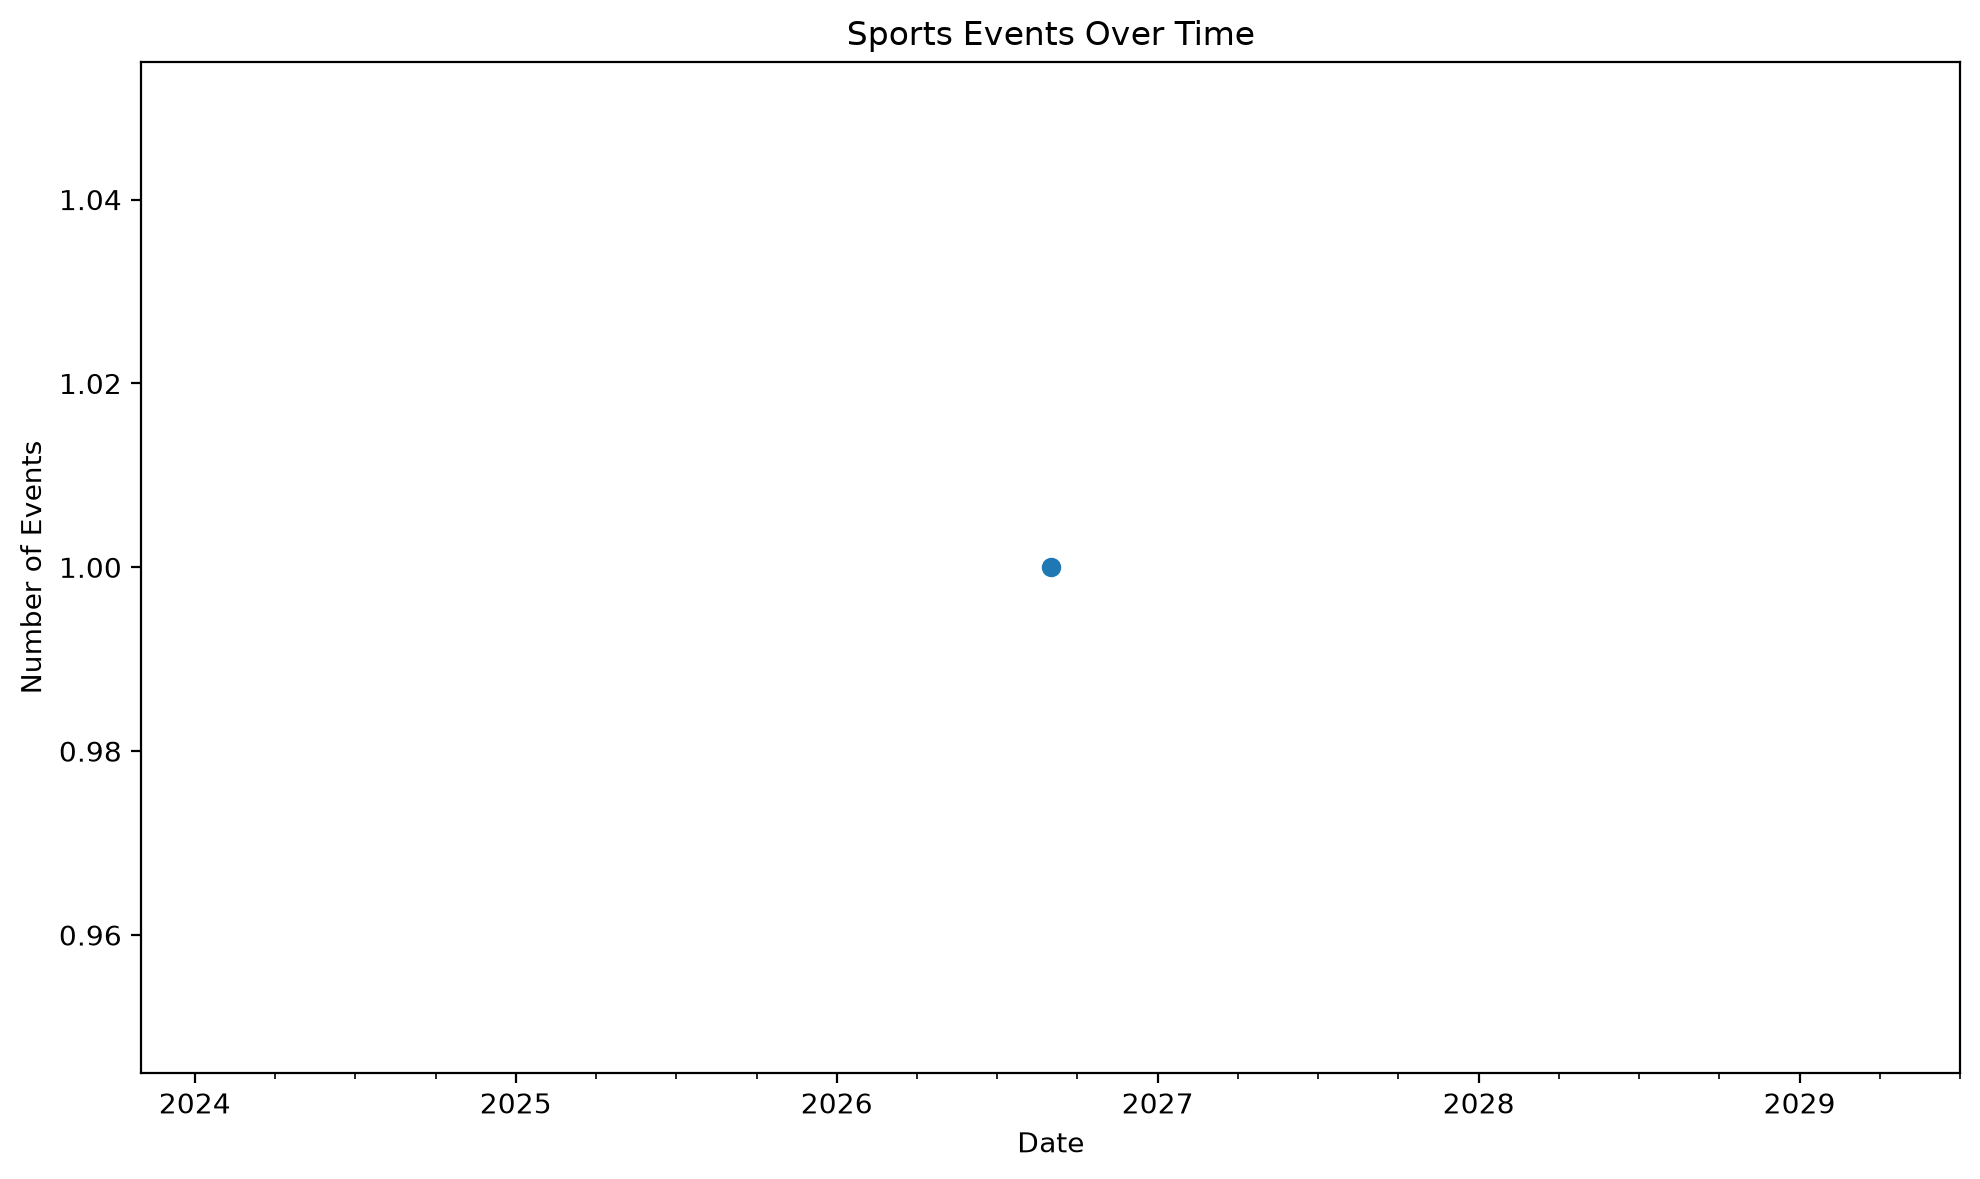
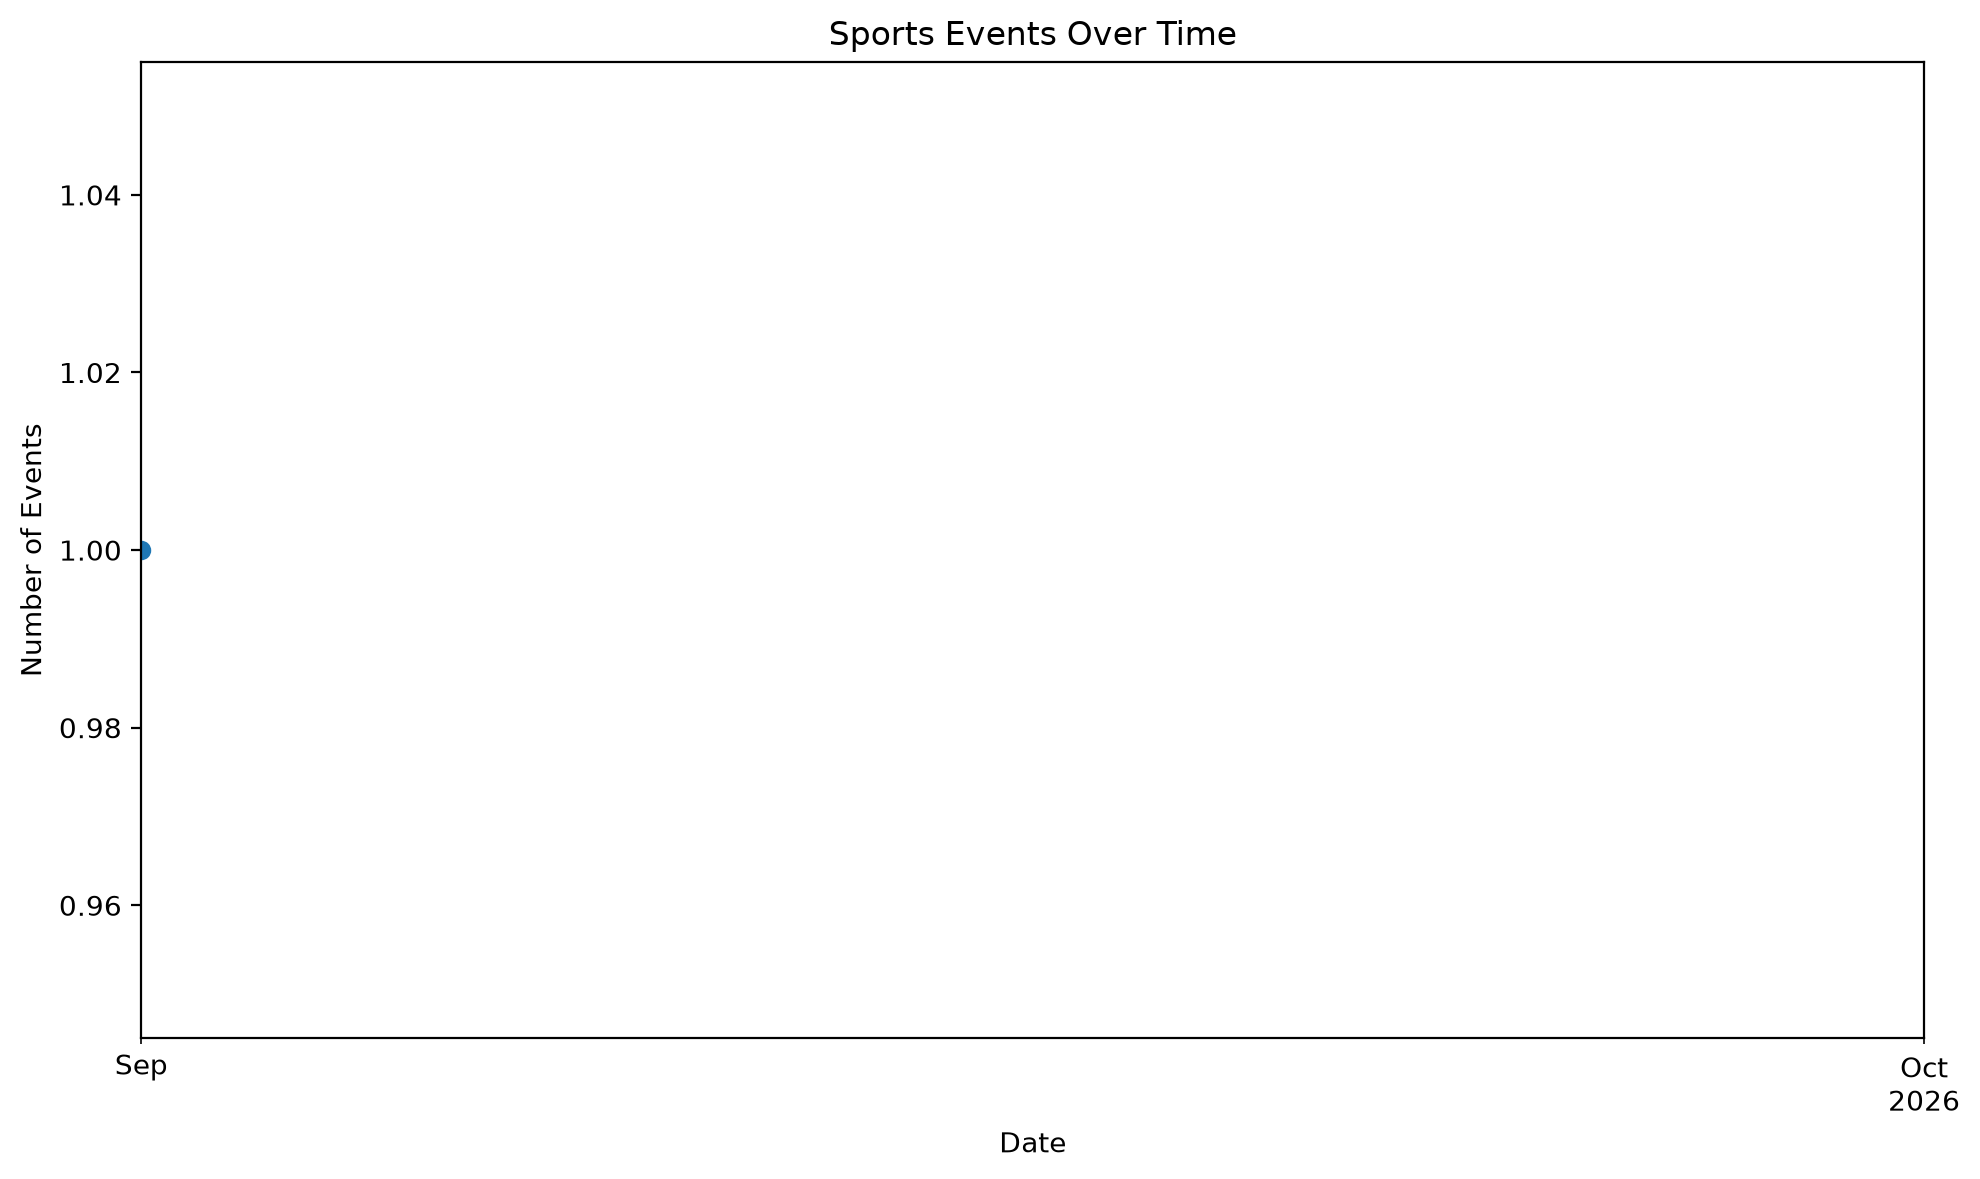
Add automated dashboard update pipeline

diff --git a/analytics.py b/analytics.py
@@ -46,7 +46,7 @@ def create_position_chart(players):
         bbox_inches="tight"
     )
 
-    plt.show()
+    
 
 
 def create_nationality_chart(players):
@@ -72,7 +72,7 @@ def create_nationality_chart(players):
 )
   
 
-    plt.show()
+
 
 def create_events_by_league_chart():
     connection = get_connection()
@@ -109,7 +109,7 @@ def create_events_by_league_chart():
 )
     
 
-    plt.show()
+    
 
 
 def create_events_over_time_chart():
@@ -145,6 +145,12 @@ def create_events_over_time_chart():
         ax=ax
     )
 
+    if len(monthly_events) == 1:
+        ax.set_xlim(
+            monthly_events.index[0] - pd.Timedelta(days=15),
+            monthly_events.index[0] + pd.Timedelta(days=15)
+        )
+
     ax.set_title("Sports Events Over Time")
     ax.set_xlabel("Date")
     ax.set_ylabel("Number of Events")
@@ -157,7 +163,7 @@ def create_events_over_time_chart():
         bbox_inches="tight"
     )
 
-    plt.show()
+    
     
 
 def main():

diff --git a/update_dashboard.py b/update_dashboard.py
@@ -1,0 +1,26 @@
+import subprocess
+import sys
+
+
+def run_script(script_name):
+    print(f"\nRunning {script_name}...")
+
+    subprocess.run(
+        [sys.executable, script_name],
+        check=True
+    )
+
+    print(f"{script_name} completed successfully.")
+
+
+def main():
+    run_script("database_teams.py")
+    run_script("database_players.py")
+    run_script("database_events.py")
+    run_script("analytics.py")
+
+    print("\nDashboard data update completed successfully.")
+
+
+if __name__ == "__main__":
+    main()
